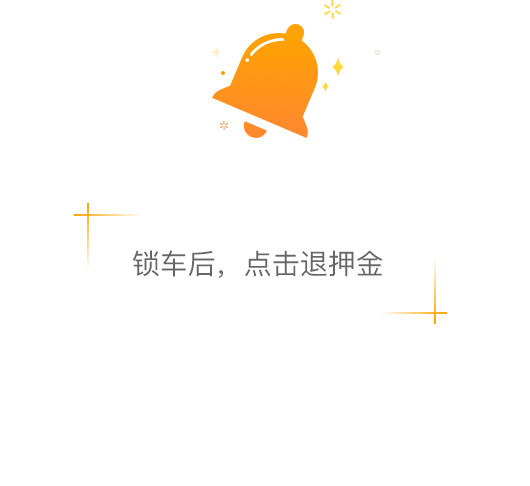
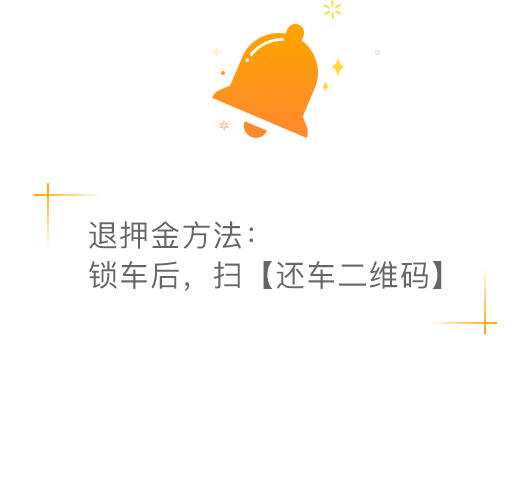
201806201955

Changed region(s): [[0.1509, 0.4012, 0.9358, 0.679], [0.0604, 0.3704, 0.1208, 0.4321]]

diff --git a/pages/index/index.js b/pages/index/index.js
@@ -62,6 +62,8 @@ Page({
 		notifyLock: false,
 
 		selfReturn: false,
+		selfReturnSuccess: false,
+		selfReturnFail: false,
   },
 
 // 页面加载
@@ -233,28 +235,33 @@ Page({
 														selfReturn: false,
 													});
 													if (res.data.status == 200) {
-														wx.showToast({
-															title: res.data.msg,
-															icon: '',
-															image: '',
-															duration: 5000,
-															mask: true,
-															success: function (res) { },
-															fail: function (res) { },
-															complete: function (res) { },
-														})
-
+														// wx.showToast({
+														// 	title: res.data.msg,
+														// 	icon: '',
+														// 	image: '',
+														// 	duration: 5000,
+														// 	mask: true,
+														// 	success: function (res) { },
+														// 	fail: function (res) { },
+														// 	complete: function (res) { },
+														// })
+														that.setData({
+															selfReturnSuccess: true,
+														});
 													}
 													if (res.data.status == 400) {
-														wx.showModal({
-															title: '提示',
-															content: res.data.msg,
-															showCancel: false,
-															confirmText: '我知道了',
-															success: function (res) { },
-															fail: function (res) { },
-															complete: function (res) { },
-														})
+														// wx.showModal({
+														// 	title: '提示',
+														// 	content: res.data.msg,
+														// 	showCancel: false,
+														// 	confirmText: '我知道了',
+														// 	success: function (res) { },
+														// 	fail: function (res) { },
+														// 	complete: function (res) { },
+														// })
+														that.setData({
+															selfReturnFail: true,
+														});
 													}
 												},
 												fail: function (res) { },
@@ -1237,6 +1244,8 @@ Page({
 		var that = this;
 		that.setData({
 			notifyLock: false,
+			selfReturnSuccess: false,
+			selfReturnFail: false,
 		});
 		
 	},
@@ -1280,28 +1289,33 @@ Page({
 											selfReturn: false,
 										});
 										if (res.data.status == 200) {
-											wx.showToast({
-												title: res.data.msg,
-												icon: '',
-												image: '',
-												duration: 5000,
-												mask: true,
-												success: function (res) { },
-												fail: function (res) { },
-												complete: function (res) { },
-											})
-
+											// wx.showToast({
+											// 	title: res.data.msg,
+											// 	icon: '',
+											// 	image: '',
+											// 	duration: 5000,
+											// 	mask: true,
+											// 	success: function (res) { },
+											// 	fail: function (res) { },
+											// 	complete: function (res) { },
+											// })
+											that.setData({
+												selfReturnSuccess: true,
+											});
 										}
 										if (res.data.status == 400) {
-											wx.showModal({
-												title: '提示',
-												content: res.data.msg,
-												showCancel: false,
-												confirmText: '我知道了',
-												success: function (res) { },
-												fail: function (res) { },
-												complete: function (res) { },
-											})
+											// wx.showModal({
+											// 	title: '提示',
+											// 	content: res.data.msg,
+											// 	showCancel: false,
+											// 	confirmText: '我知道了',
+											// 	success: function (res) { },
+											// 	fail: function (res) { },
+											// 	complete: function (res) { },
+											// })
+											that.setData({
+												selfReturnFail: true,
+											});
 										}
 									},
 									fail: function (res) { },
